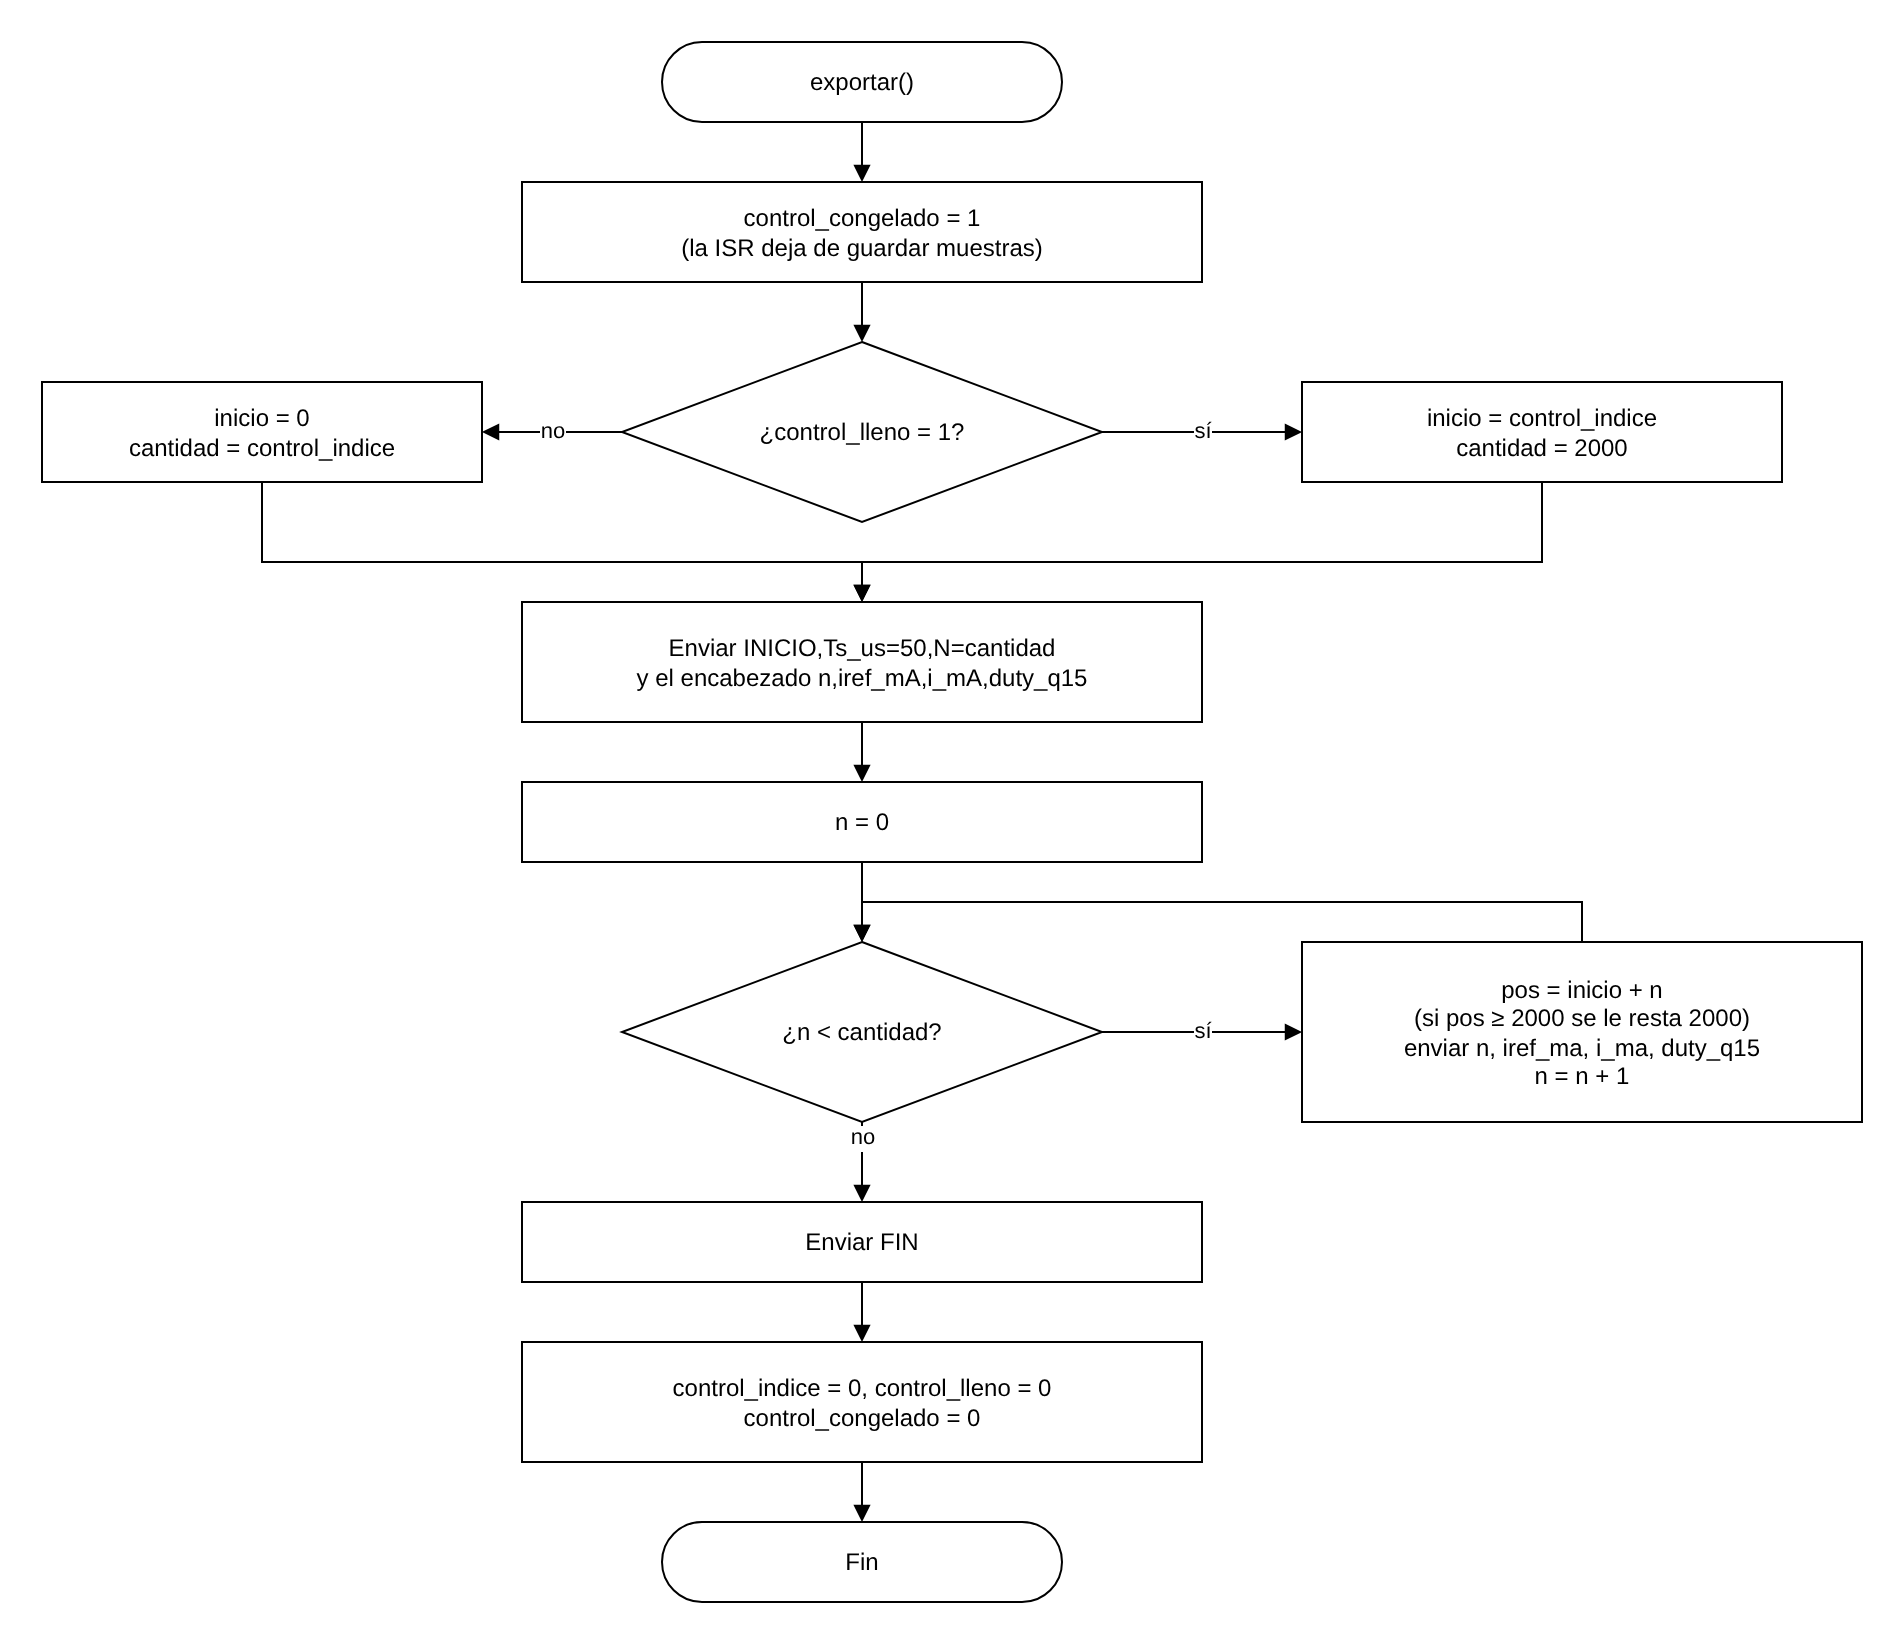
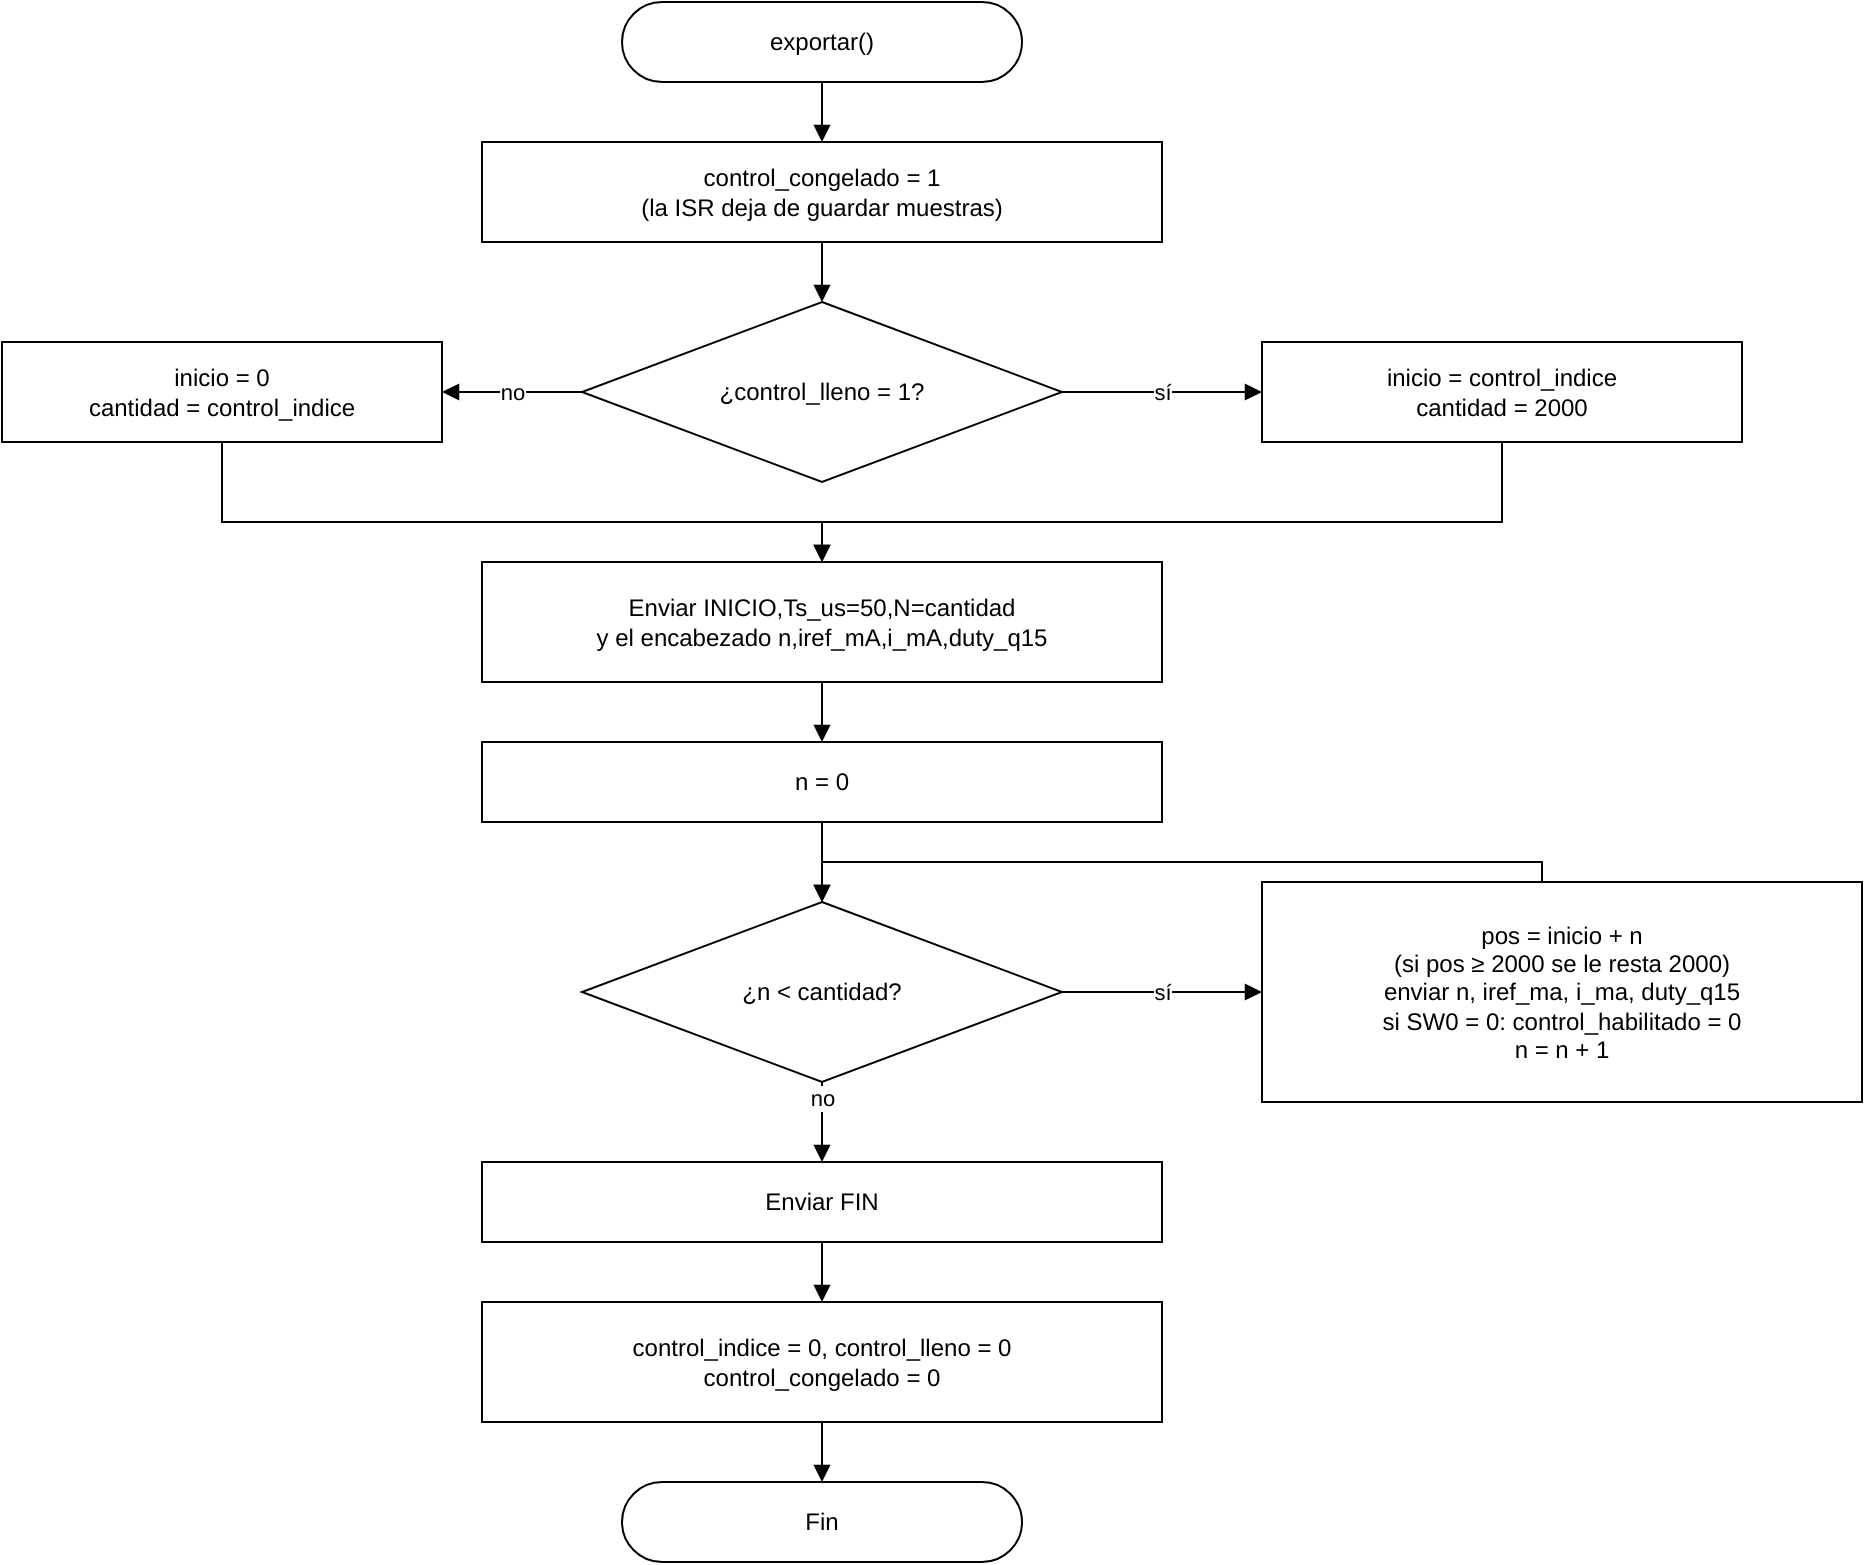
Se actualizan los diagramas del software y del testbench con el lazo abierto y se corrigen datos de las pruebas

diff --git a/Control_Corriente_Inversor_MicroBlazeV/docs/informe/informe.md b/Control_Corriente_Inversor_MicroBlazeV/docs/informe/informe.md
@@ -492,7 +492,7 @@ El $m$ pico escala 1 : 2,5 : 5 igual que la referencia, pero queda entre 2 y 3 %
 
 ### 11.4 Exportación
 
-En todas las exportaciones llegaron las 2000 muestras, con `n` seguido de 0 a 1999, e `iref` cruza por cero cada 200 muestras (400 muestras × 50 µs = 20 ms, o sea 50 Hz). La exportación son unas 2000 líneas de unos 18 caracteres, unos 36 KB a 115 200 baud (≈ 11,5 KB/s), así que dura unos 3 s. Durante ese tiempo el lazo sigue cada 50 µs, como mostró la medición de la ISR.
+En todas las exportaciones llegaron las 2000 muestras, con `n` seguido de 0 a 1999, e `iref` cruza por cero cada 200 muestras (400 muestras × 50 µs = 20 ms, o sea 50 Hz). La exportación son unas 2000 líneas de unos 20 caracteres, unos 40 KB a 115 200 baud (≈ 11,5 KB/s), así que dura unos 3,5 s. Durante ese tiempo el lazo sigue cada 50 µs, como mostró la medición de la ISR.
 
 ### 11.5 Integración con el puente H
 
@@ -561,7 +561,7 @@ La pérdida de tensión por el tiempo muerto es de unos $2\,t_{muerto}\,f_{sw}\,
 - El lazo no se cerró con la corriente real: la salida del ACS712 todavía no está llevada al rango de 0 a 1 V del XADC. Con el puente se probó la conmutación, pero no hay mediciones de corriente con la FPGA.
 - Las pruebas de lazo cerrado (planta simulada y emulador) se hicieron con la carga anterior de 10,3 Ω.
 - El jitter se midió con persistencia en una ventana de 500 ns que quedó llena, así que el valor es una cota inferior.
-- Mientras se exporta, la ISR no guarda muestras. El bloque exportado es continuo, pero los 3 s de la exportación no quedan registrados.
+- Mientras se exporta, la ISR no guarda muestras. El bloque exportado es continuo, pero los 3,5 s de la exportación no quedan registrados.
 - El PR no tiene antiwindup: si $m$ se satura, la parte resonante sigue integrando.
 - En el modo emulador el PWM queda encendido con $m = 0$ aun con el lazo apagado, porque el RC necesita la conmutación para dar el offset. Por eso ese modo no se usa con el puente conectado.
 

diff --git a/Control_Corriente_Inversor_MicroBlazeV/C/DOCS/DOCUMENTACION_BUFFER_UART.md b/Control_Corriente_Inversor_MicroBlazeV/C/DOCS/DOCUMENTACION_BUFFER_UART.md
@@ -107,7 +107,7 @@ Se midió con el pin de prueba: durante la exportación la ISR sigue cada 50 µs
 # 7. Consideraciones de diseño
 
 - Las 2000 muestras que se exportan son seguidas y no les falta ninguna. Las muestras que ocurren mientras se exporta no se guardan, porque el buffer está congelado.
-- La exportación dura unos 3 s: son unas 2000 líneas de unos 18 caracteres (≈ 36 KB) a 115 200 baud (≈ 11,5 KB/s).
+- La exportación dura unos 3,5 s: son unas 2000 líneas de unos 20 caracteres (≈ 40 KB) a 115 200 baud (≈ 11,5 KB/s).
 - Mientras se exporta, `main` está dentro de `exportar()`. En cada línea se lee SW0 y, si se bajó, se apaga el lazo, así que se puede apagar aunque se esté exportando. Los demás switches se aplican cuando termina la exportación.
 - Después de exportar el buffer queda vacío. Si se presiona BTNC enseguida, se envían solo las muestras que se guardaron desde entonces.
 
@@ -115,7 +115,7 @@ Se midió con el pin de prueba: durante la exportación la ISR sigue cada 50 µs
 
 # 8. Validación
 
-Se exportó el buffer con el lazo abierto y con el lazo cerrado, con las tres amplitudes. En todos los casos llegaron 2000 muestras con `n` de 0 a 1999 sin saltos, y `iref` cruza por cero cada 200 muestras (50 Hz). Los resultados completos están en el informe.
+Se exportó el buffer con el lazo apagado y con el lazo cerrado, con las tres amplitudes. En todos los casos llegaron 2000 muestras con `n` de 0 a 1999 sin saltos, y `iref` cruza por cero cada 200 muestras (50 Hz). Los resultados completos están en el informe.
 
 ---
 

diff --git a/Control_Corriente_Inversor_MicroBlazeV/C/DOCS/DOCUMENTACION_CONTROL.md b/Control_Corriente_Inversor_MicroBlazeV/C/DOCS/DOCUMENTACION_CONTROL.md
@@ -272,9 +272,10 @@ Las pruebas se hicieron en la Nexys 4 sin la etapa de potencia. Las tablas compl
 | Prueba | Resultado |
 |--------|-----------|
 | Periodo del lazo (pin JA8, osciloscopio) | 50,0 µs |
-| Jitter pico a pico del periodo | Al menos 500 ns (cota inferior, la franja ocupó toda la ventana del osciloscopio). |
+| Variación del flanco del pin de prueba | Al menos 500 ns (la franja ocupó toda la ventana del osciloscopio). |
+| Latencia de entrada a la ISR | 289 a 324 ciclos (2,89 a 3,24 µs), con el contador del Timer durante unos 5,6 min |
 | Duración de la ISR | ≈ 10,75 µs en operación normal (21,5 % de Ts) y 8,57 µs mientras se exporta |
-| Lazo abierto con el emulador | `iref` de ±199, ±499 y ±999 mA a 50 Hz; `i = 0 ± 3 mA` |
+| Emulador con el lazo apagado | `iref` de ±199, ±499 y ±999 mA a 50 Hz; `i = 0 ± 3 mA` |
 | Lazo cerrado con el emulador | Error RMS de 1,9 a 2,0 mA y error máximo de 6 a 7 mA en las tres amplitudes |
 
 Estas pruebas validan la cadena digital completa. El desempeño del PR con la carga RL real se comprueba en la integración con la etapa de potencia.

diff --git a/Control_Corriente_Inversor_MicroBlazeV/C/DOCS/DOCUMENTACION_ADC.md b/Control_Corriente_Inversor_MicroBlazeV/C/DOCS/DOCUMENTACION_ADC.md
@@ -138,8 +138,8 @@ El valor inicial es 0,47 V.
 | Prueba | Resultado |
 |--------|-----------|
 | Tensión DC con los dos disparos | Se leyó la tensión con el inicio por software y con `pwm_trigger_o`. |
-| Emulador RC con el lazo apagado (prueba 4) | `i = 0 ± 3 mA`, o sea que el offset se aprendió bien. |
-| Emulador RC con el lazo cerrado (prueba 5) | La amplitud del seno medida con el osciloscopio en el nodo del RC coincide, con unos 5 mV de diferencia, con la que se calcula del ciclo de trabajo exportado. |
+| Emulador RC con el lazo apagado (prueba 4 del informe) | `i = 0 ± 3 mA`, o sea que el offset se aprendió bien. |
+| Emulador RC con el lazo cerrado (prueba 6 del informe) | La amplitud del seno medida con el osciloscopio en el nodo del RC coincide, con 4 a 7 mV de diferencia, con la que se calcula del ciclo de trabajo exportado. |
 
 ---
 
